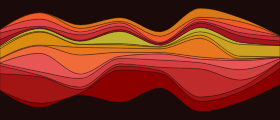
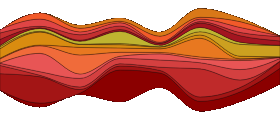
Use transparent backgrounds for adaptive theme previews
Replaced dark backgrounds with transparency in lastwave, ember,
mosaic, and ocean preview PNGs so they blend with the page
background in both dark and light mode. Removed light-variant
images and dark mode detection logic from WaveOptions — no longer
needed.

diff --git a/src/components/WaveOptions.tsx b/src/components/WaveOptions.tsx
@@ -1,4 +1,4 @@
-import { useState, useEffect } from 'react';
+import { useState } from 'react';
 import { useLastWaveStore } from '@/store/index';
 import schemes from '@/core/config/schemes.json';
 import easyDates from '@/core/config/easyDates.json';
@@ -21,17 +21,6 @@ export default function WaveOptions({ onSubmit }: WaveOptionsProps) {
   const setRendererOption = useLastWaveStore((s) => s.setRendererOption);
 
   const [showAdvanced, setShowAdvanced] = useState(false);
-  const [isDark, setIsDark] = useState(() =>
-    typeof document !== 'undefined' ? document.documentElement.classList.contains('dark') : true
-  );
-
-  useEffect(() => {
-    const check = () => setIsDark(document.documentElement.classList.contains('dark'));
-    check();
-    const observer = new MutationObserver(check);
-    observer.observe(document.documentElement, { attributes: true, attributeFilter: ['class'] });
-    return () => observer.disconnect();
-  }, []);
 
   // Initialize defaults on first render if empty
   const username = dataSourceOptions.username ?? '';
@@ -157,7 +146,7 @@ export default function WaveOptions({ onSubmit }: WaveOptionsProps) {
                 >
                   <div className="rounded overflow-hidden mb-1.5">
                     <img
-                      src={`/scheme-previews/${name}${!isDark && scheme.backgroundColorLight ? '-light' : ''}.png`}
+                      src={`/scheme-previews/${name}.png`}
                       alt={`${name} theme preview`}
                       width={140}
                       height={60}
